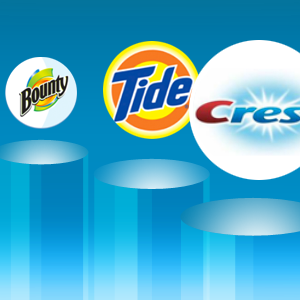
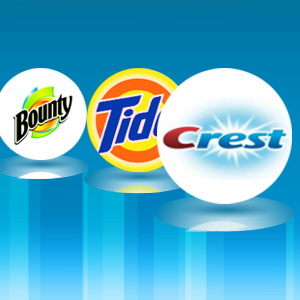
fix margin issue

diff --git a/build/index.css b/build/index.css
@@ -257,6 +257,7 @@ nav a {
     color: #ffffff;
     width: 70px;
     margin: 0 10px;
+    margin-top: 25px;
     padding: 8px;
     text-decoration: none;
     border: 2px solid;
@@ -278,11 +279,9 @@ nav a {
 #logoText{
     font-size: 10pt;
     font-family: 'Roboto', sans-serif;
-    font-weight: 400;
-    
+    font-weight: 400;    
     text-align: left;
     margin-left:20px;
-    margin-bottom: 20px;
     margin-top: 20px;
     width:360px;
     display:inline-block;

diff --git a/index.css b/index.css
@@ -232,6 +232,7 @@ nav a {
     color: #ffffff;
     width: 70px;
     margin: 0 10px;
+    margin-top: 25px;
     padding: 8px;
     text-decoration: none;
     border: 2px solid;
@@ -253,11 +254,9 @@ nav a {
 #logoText{
     font-size: 10pt;
     font-family: 'Roboto', sans-serif;
-    font-weight: 400;
-    
+    font-weight: 400;    
     text-align: left;
     margin-left:20px;
-    margin-bottom: 20px;
     margin-top: 20px;
     width:360px;
     display:inline-block;
